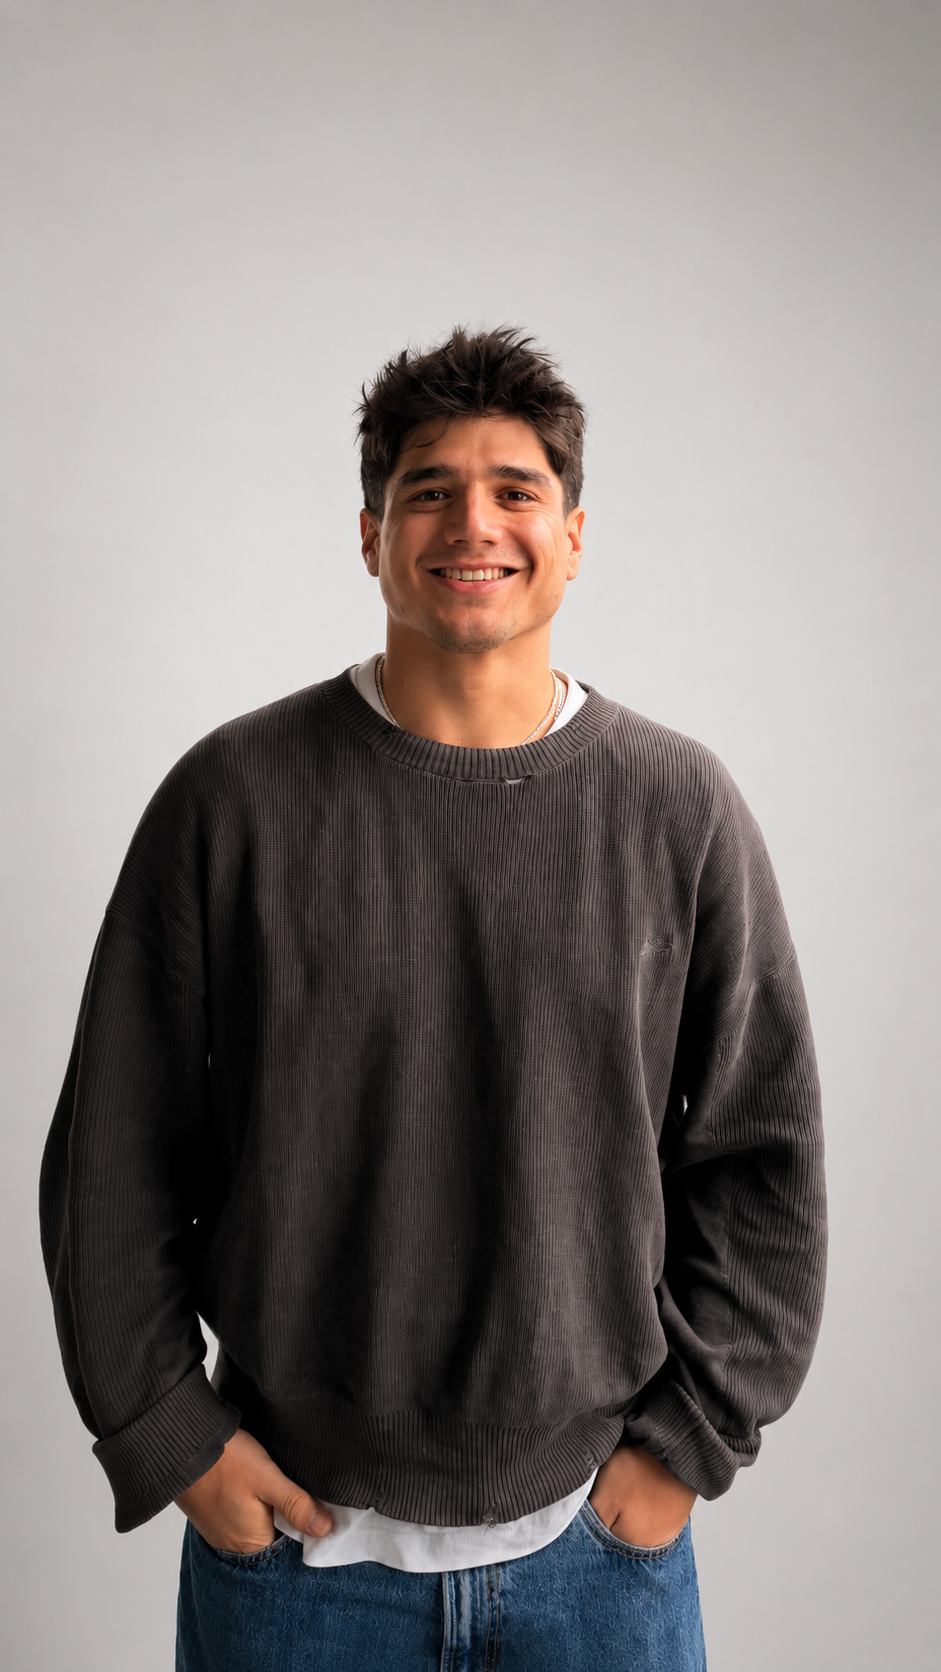
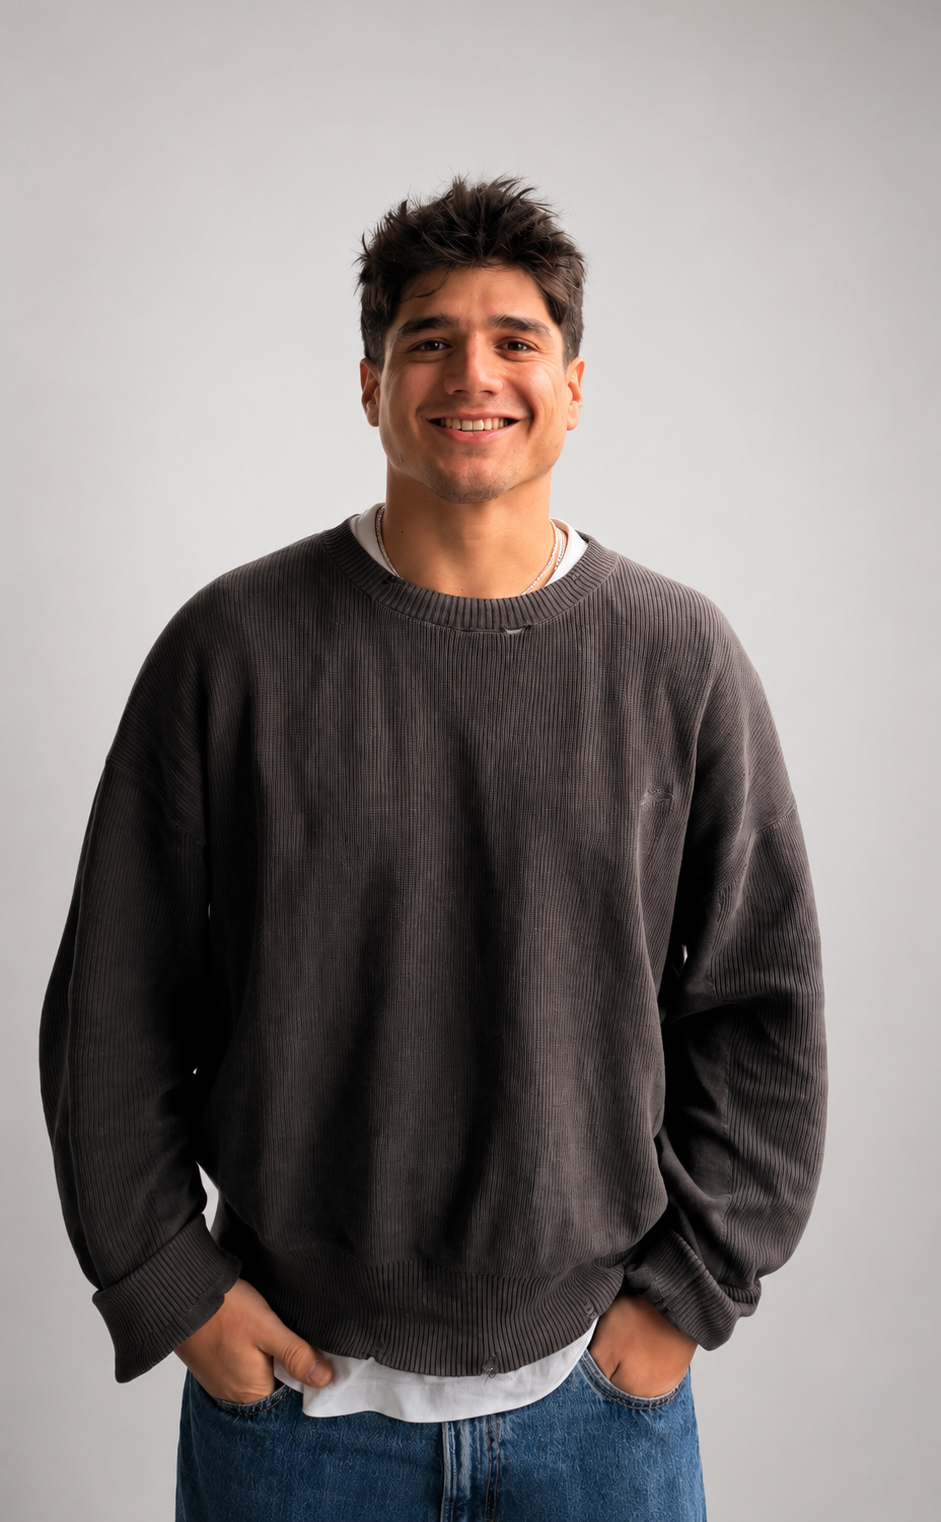
Adjust profile photo and section layouts for better visual appeal
Update profile photo cropping, adjust About section padding and alignment, and rename "LATEST PROJECTS" to "RECENT PROJECTS" in App.tsx.

Replit-Commit-Author: Agent
Replit-Commit-Session-Id: 78f4c0f6-89fa-48ef-98f3-3147614e5dee
Replit-Commit-Checkpoint-Type: full_checkpoint
Replit-Commit-Event-Id: 4a9df94d-a464-4940-93c2-22ff76c3dc62
Replit-Commit-Screenshot-Url: https://storage.googleapis.com/screenshot-production-us-central1/e3b54514-e183-41ff-acae-4551793b5d98/78f4c0f6-89fa-48ef-98f3-3147614e5dee/irca0Ah
Replit-Helium-Checkpoint-Created: true

Changed region(s): [[0.0308, 0.0926, 0.8937, 0.9882], [0.4931, 0.772, 0.5239, 0.8029]]

diff --git a/artifacts/portfolio/src/App.tsx b/artifacts/portfolio/src/App.tsx
@@ -534,7 +534,7 @@ function Home() {
           </div>
 
           {/* RIGHT */}
-          <div className="md:col-span-7 flex flex-col justify-center rounded-none px-8 md:px-16 py-10 md:py-14">
+          <div className="md:col-span-7 flex flex-col justify-start rounded-none px-8 md:px-16 pt-10 pb-10 md:pt-12 md:pb-12">
             <div className="font-sans font-light text-xs text-muted-foreground uppercase tracking-[0.2em] mb-2">
               02
             </div>
@@ -563,7 +563,7 @@ function Home() {
           </div>
         </motion.div>
       </section>
-      {/* 4. LATEST PROJECTS */}
+      {/* 4. RECENT PROJECTS */}
       <section id="work" className="w-full border-t border-[#1a1a1a]">
         {/* Header */}
         <motion.div
@@ -574,7 +574,7 @@ function Home() {
         >
           <div className="flex items-end gap-5">
             <h2 className="font-serif font-bold text-5xl md:text-7xl text-[#F5F0E8] uppercase m-0 leading-none">
-              LATEST PROJECTS
+              RECENT PROJECTS
             </h2>
             <div className="hidden md:block mb-2" style={{ transform: "skewX(-10deg)" }}>
               <div className="bg-[#FF4D00] px-3 py-1">